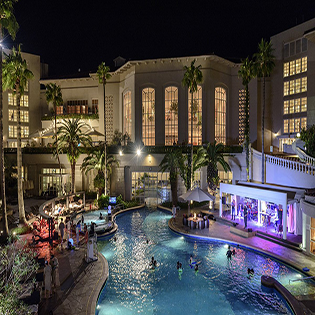
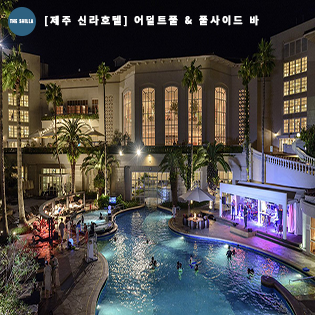
todayup

Changed region(s): [[0.1429, 0.0286, 0.8286, 0.0857], [0.0286, 0.0, 0.1143, 0.1143]]

diff --git a/01site/04company/css/style.css b/01site/04company/css/style.css
@@ -210,7 +210,15 @@ li.ct3st .bx-wrapper .bx-pager,li.ct3st  .bx-wrapper .bx-controls-auto {
 .content>ul>li.ct3st .slider02Wrap ul li{height: 315px;}
 
 
-.content>ul>li.ct4st{width: 75%;background-color: darkgreen;}
+.content>ul>li.ct4st{width: 75%;position: relative;}
+.content>ul>li.ct4st .pWrap01{
+	position: absolute;bottom:0;right: : 10px;width: 945px;height: 86px;
+	background-color: rgba(0,0,0,0.4);padding-left: 15px;
+}
+.content>ul>li.ct4st .pWrap01 p.p_one{color: white;font-size: 19px;letter-spacing: 5px;}
+.content>ul>li.ct4st .pWrap01 p.p_two{color: white;font-size: 14px;letter-spacing: 4px;padding-left: 5px;}
+.content>ul>li.ct4st .pWrap01 span{color:white;font-size: 30px;letter-spacing: 6px;}
+
 .content>ul>li.ct5st{background-color: yellow;position: relative;_overflow: hidden;}
 .content>ul>li.ct5st img:nth-child(2){
 	position: absolute;top:50%;left:50%;
@@ -218,23 +226,29 @@ li.ct3st .bx-wrapper .bx-pager,li.ct3st  .bx-wrapper .bx-controls-auto {
 }
 .content>ul>li.ct5st:hover img:first-child{transform:scale(1.1);transition: 0.3s}
 
-.content>ul>li.ct6st{width:100%;background-color: green;}
+.content>ul>li.ct6st{width:100%;position: relative;}
+.content>ul>li.ct6st .pWrap02{position: absolute;top:20px;left: 10px;}
+.content>ul>li.ct6st .pWrap02>img{margin-bottom: 140px;}
+.content>ul>li.ct6st .pWrap02>p{padding-left: 13px;color:white;font-size: 23px;letter-spacing: 3px;}
 
 /*container*/
 
 .container{
 	height: 750px;
-	background: url(../images/contentsbg01.jpg) no-repeat center fixed;
+	background: url(../images/container_bg04.png) no-repeat center fixed;
 	background-size: cover;
 }
-.container .section{width: 1260px;margin: 0 auto;padding-top: 70px;}
-.container h4{text-align: center;color:white;}
-.container h4:after{
+.container .section{width: 1260px;margin: 0 auto;padding-top: 30px;}
+.container h4{text-align: center;color:white;letter-spacing: 5px;margin-bottom: 5px;}
+/*.container h4:after{
 	content:"";display: block;width: 50px;height: 3px;margin: 20px auto;background-color: #fff;
+}*/
+.container .section>p{
+	text-align: center;color:white;font-size: 2.3em;margin-bottom: 70px;
+	font-weight: bold;letter-spacing: 5px;
 }
-.container .section>p{text-align: center;color:white;font-size: 2em;margin-bottom: 70px;}
 .container .vision li{
-	float: left;margin-right: 20px;width: 300px;_background-color:skyblue;
+	float: left;margin-right: 20px;width: 406px;_background-color:skyblue;
 	height: 380px;transition: 0.3s;
 }
 .container .vision li:hover{
@@ -242,14 +256,19 @@ li.ct3st .bx-wrapper .bx-pager,li.ct3st  .bx-wrapper .bx-controls-auto {
 	transform: translate(-10px,-10px);
 }
 .container .vision li:last-child{margin-right: 0;}
-.container .vision .card{width: 300px;height: 300px;_background-color: skyblue;position: relative;}
+.container .vision .card{
+	width: 300px;height: 300px;_background-color: skyblue;
+	position: relative;border: 1px solid #fff;
+	border-radius: 150px;
+	margin: 0 auto;
+}
 .container .vision .card img{
-	position: absolute;left: 50%;transform: translateX(-50%);
+	position: absolute;left: 41%;transform: translateX(-80%);
 	top: 70px;
 }
 .container .vision .card .card_body{
-	position: absolute;bottom: 0;width: 300px;_height: 160px;
-	padding: 0 20px;text-align: center;color:white;
+	position: absolute;bottom: 20px;width: 300px;_height: 160px;
+	padding: 0 20px;text-align: center;color:white;;
 }
 
 .container .vision .card .card_body h3{margin-bottom: 10px;}

diff --git a/01site/04company/index.html b/01site/04company/index.html
@@ -11,7 +11,10 @@
 <script src="js/jquery.bxslider.js"></script>
 <script>
 	$(document).ready(function(){
-		$(".slider").bxSlider();
+		$(".slider").bxSlider({
+			speed:1500,
+			auto:true
+		});
 		$(".slider01").bxSlider({
 			controls:false,
 			auto:true,
@@ -142,6 +145,11 @@
 				<li class="ct4st">
 					<a href="#">
 						<img src="images/4st_li.png" alt="">
+						<div class="pWrap01">
+							<p class="p_one">신라호텔 X 현대자동차</p>
+							<span>전기차 무료체험 서비스</span>
+							<p class="p_two">2020.02.02 ~ 2020.02.29</p>
+						</div>
 					</a>
 				</li>
 				<li class="ct5st">
@@ -153,6 +161,10 @@
 				<li class="ct6st">
 					<a href="#">
 						<img src="images/6st_li.png" alt="">
+						<div class="pWrap02">
+							<img src="images/1st_li_text.png" alt="">
+							<p>누구나 한 번쯤 꿈꾸는 일상으로부터의 탈출<br>호텔신라와 함께 특별한 하루를 보내세요</p>
+						</div>
 					</a>
 				</li>
 			</ul>
@@ -160,45 +172,39 @@
 	</header>
 	<div class="container">
 		<div class="section">
-			<h4>비전</h4>
-			<p>VISION 2020</p>
+			<h4>THE BEST HOSPITALITY COMPANY</h4>
+			<p>THE SHILLA</p>
 			<ul class="vision clearfix">
 				<li>
 					<div class="card">
-						<img src="images/banner_icon01_01.png" alt="engineering">
+						<img src="images/card_icon.png" alt="engineering">
 						<div class="card_body">
-							<h3>Engineering</h3>
-							<p>Lorem ipsum dolor sit amet, consectetur adipisicing elit. Quae, recusandae.</p>
+							<h3>신라인으로서 미션</h3>
+							<p>우리는 Premium Lifestyle을<br>선도하는 신라인으로서 각각의<br>분야에서 최고의 전문가로 <br> 성장한다.
+							</p>
 						</div>
 					</div>
 				</li>
 				<li>
 					<div class="card">
-						<img src="images/banner_icon01_02.png" alt="engineering">
+						<img src="images/card_icon.png" alt="engineering">
 						<div class="card_body">
-							<h3>Engineering</h3>
-							<p>Lorem ipsum dolor sit amet, consectetur adipisicing elit. Quae, recusandae.</p>
+							<h3>고객에 대한 미션</h3>
+							<p>우리는 더 많은 고객이 다향한<br>생활영역에서 신라의 품격과<br>자부심을 경험하게 한다.
+             				</p>
 						</div>
 					</div>
 				</li>
 				<li>
 					<div class="card">
-						<img src="images/banner_icon01_03.png" alt="engineering">
+						<img src="images/card_icon.png" alt="engineering">
 						<div class="card_body">
-							<h3>Engineering</h3>
-							<p>Lorem ipsum dolor sit amet, consectetur adipisicing elit. Quae, recusandae.</p>
+							<h3>사회에 대한 미션</h3>
+							<p>우리는 지속적인 혁신과 성장을<br>통해 인류가 더 나은 삶을<br>누릴 수 있도록 기여한다.</p>
 						</div>
 					</div>
 				</li>
-				<li>
-					<div class="card">
-						<img src="images/banner_icon01_04.png" alt="engineering">
-						<div class="card_body">
-							<h3>Engineering</h3>
-							<p>Lorem ipsum dolor sit amet, consectetur adipisicing elit. Quae, recusandae.</p>
-						</div>
-					</div>
-				</li>
+				
 			</ul>
 		</div>
 	</div>
